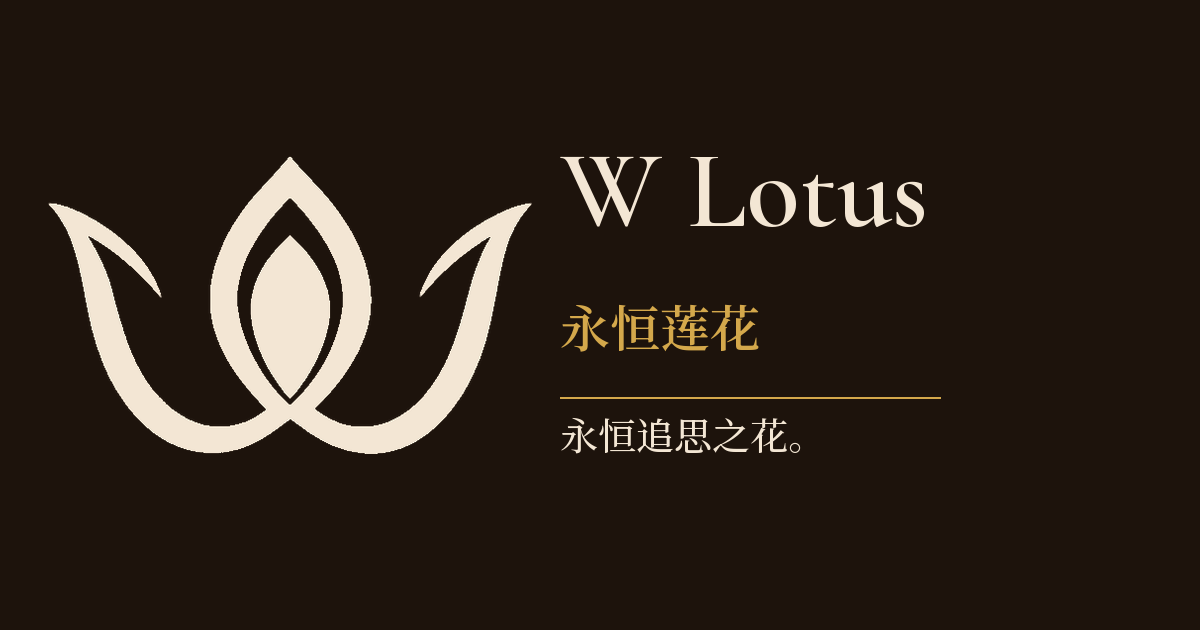
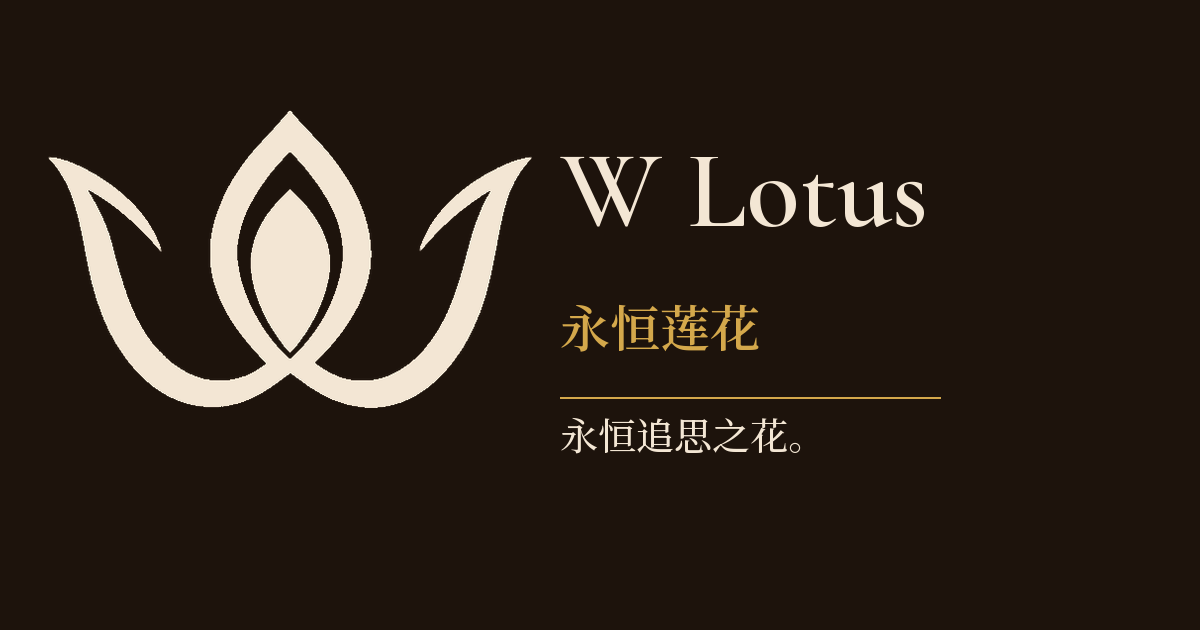
fix(web): align OG type with the outer petal tips, not the center spike
The lotus mark has a tall center petal and two lower side tips. Match the
top of “W Lotus” to those side tips so the spike sits a little above the
wordmark.

Changed region(s): [[0.0308, 0.181, 0.4625, 0.7238]]

diff --git a/scripts/build-og-image.py b/scripts/build-og-image.py
@@ -4,8 +4,9 @@
 Layout matches danaverse.org/og.png: rosewood field, cream brand mark on
 the left, serif wordmark + gold tagline + rule + remembrance line.
 
-The lotus is scaled so its ink matches the text stack: top of the flower
-aligns with the top of “W Lotus”, bottom with the last line.
+The lotus is scaled to the type stack. Outer petal tips (not the
+center spike) align with the top of “W Lotus”; the center spike sits
+a little above the type.
 
 Outputs (product default is Vietnamese). Canonical path is `/images/`
 so messengers never reuse a poisoned `/og.png` cache from when nginx
@@ -80,6 +81,35 @@ CARDS = (
         "cjk": True,
     },
 )
+
+
+def outer_petal_tip_y(glyph: Image.Image) -> int:
+    """Y of the outer petal tips — the pointed left/right rim, not the center spike.
+
+    After bbox-crop the arms reach the left and right edges; their highest
+    ink in the outer fifth of the glyph is the edge the type should meet.
+    """
+    w, h = glyph.size
+    px = glyph.load()
+    assert px is not None
+    band = max(1, w // 5)
+
+    def min_top(x0: int, x1: int) -> int:
+        best = h
+        for x in range(x0, x1):
+            for y in range(h):
+                if px[x, y][3] >= 8:
+                    if y < best:
+                        best = y
+                    break
+        return best
+
+    left = min_top(0, band)
+    right = min_top(w - band, w)
+    tip = min(left, right)
+    if tip >= h:
+        raise SystemExit("could not find outer petal tips on glyph")
+    return tip
 
 
 def extract_cream_glyph(src: Image.Image) -> Image.Image:
@@ -178,14 +208,18 @@ def compose(card: dict, glyph_src: Image.Image) -> None:
             f"{card['locale']} body overflows x={body_ink[2]}: {body!r}"
         )
 
-    flower_top = title_ink[1]
+    # Same scale as the type stack (title top → last line). Shift up so the
+    # outer petal tips — not the center spike — meet “W Lotus”.
+    title_top = title_ink[1]
     flower_bottom = body_ink[3]
-    flower_h = max(1, flower_bottom - flower_top)
+    flower_h = max(1, flower_bottom - title_top)
     scale = flower_h / glyph_src.height
     flower_w = max(1, round(glyph_src.width * scale))
     glyph = glyph_src.resize((flower_w, flower_h), Image.Resampling.LANCZOS)
+    tip = outer_petal_tip_y(glyph)
+    gy = title_top - tip
     gx = max(48, text_x - 56 - glyph.width)
-    canvas.paste(glyph, (gx, flower_top), glyph)
+    canvas.paste(glyph, (gx, gy), glyph)
 
     canonical = IMAGES / card["file"]
     canvas.save(canonical, format="PNG", optimize=True)
